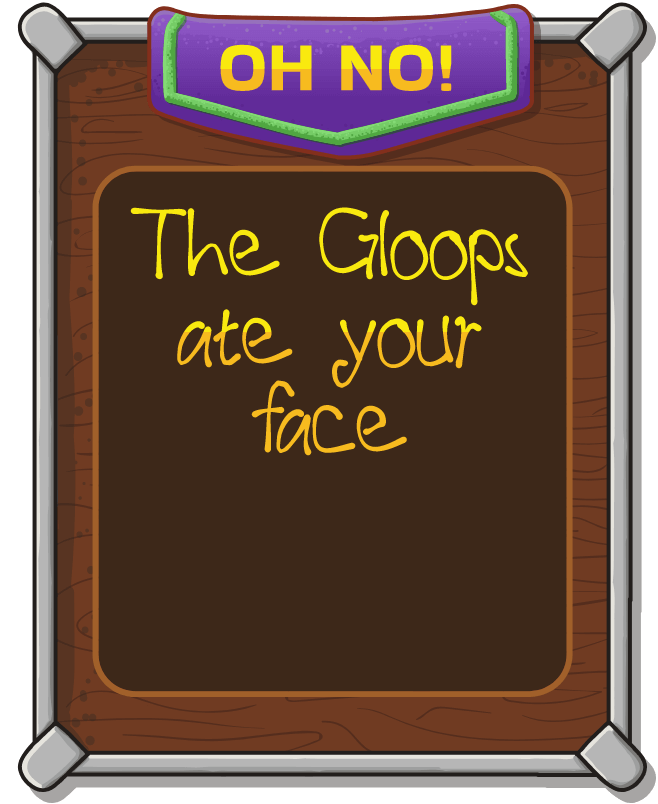
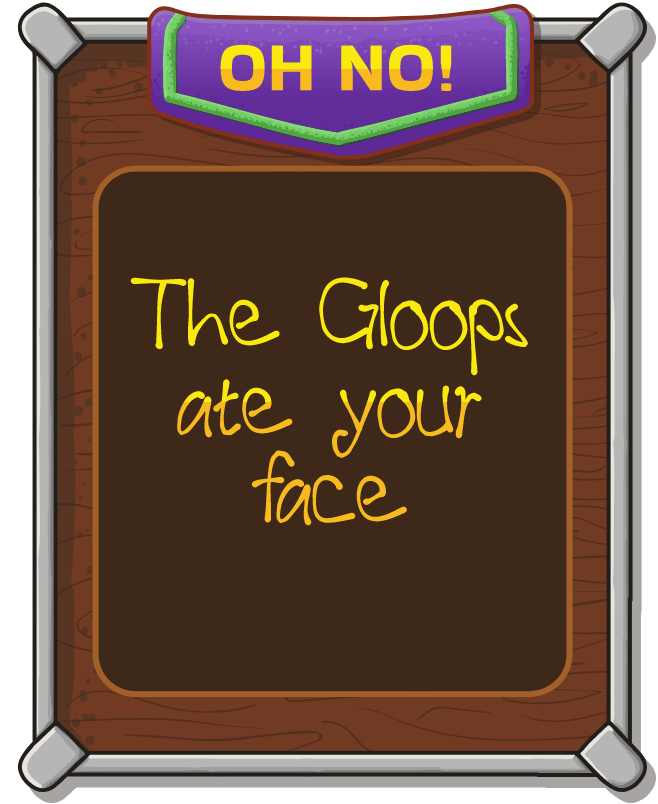
Add game over background image to UI

Changed region(s): [[0.1824, 0.2488, 0.8207, 0.653]]

diff --git a/public/game.js b/public/game.js
@@ -1,5 +1,5 @@
 const INITIAL_EARLY_WAVE_GOLD_BONUS = 100;
-const INITIAL_GAME_STATUS = "gameover";
+const INITIAL_GAME_STATUS = "initial";
 const INITIAL_GOLD_STASH_TOTAL = 5000;
 const INITIAL_PLAYER_HP = 10;
 const INITIAL_TOTAL_GLOOPS = 1;
@@ -166,6 +166,10 @@ const imgPlayAgainButton = new Image();
 imageConfig = ui.gameOverScreen.playAgainButton.drawing.image;
 newUIElement = generateUIImage(imageConfig, imgPlayAgainButton)
 
+const imgUIGameOverBg = new Image();
+imageConfig = ui.gameOverScreen.background.drawing.image;
+newUIElement = generateUIImage(imageConfig, imgUIGameOverBg)
+
 const imgAcidRain = new Image();
 imageConfig =  ui.superPowers.acidRain.drawing.image;
 newUIElement = generateUIImage(imageConfig, imgAcidRain)
@@ -312,7 +316,7 @@ const configTowerLocation = {
   width: TOWER_LOCATION_SIZE.width,
   height: TOWER_LOCATION_SIZE.height,
   fillColor: "transparent",
-  strokeColor: "yellow",
+  strokeColor: "transparent",
 };
 
 const xOffset = Math.round(screenCenter.x - canvas.center.x); // because the canvas is centered
@@ -455,6 +459,7 @@ const isWaveClear = (waveNumber) => {
 
 const populateUIImages = () => {
   const elements = [
+    ui.gameOverScreen.background,
     ui.gameOverScreen.playAgainButton,
     ui.playerStatus.background,
     ui.playerStatus.buttonNextWaveBg,
@@ -481,7 +486,6 @@ const populateUIImages = () => {
 
 const populateFillText = () => {
   const elements = [
-    ui.messages.gameOver,
     ui.playerStatus.buttonNextWaveText,
     ui.playerStatus.gemStashText,
     ui.playerStatus.playerHPText,

diff --git a/public/scripts/UserInterface.js b/public/scripts/UserInterface.js
@@ -92,6 +92,22 @@ class UserInterface {
 				},
 			},
 			gameOverScreen: {
+				background: {
+					evalAvailable: function () {
+						return game.status === "gameover";
+					},
+					drawing: {
+						image: {
+							img: null,
+							src: "static/ui_game_over_bg.png",
+							id: "ui-game-over-bg",
+							x: canvas.center.x - 526 / 2,
+							y: canvas.center.y - 643 / 2,
+							width: 526,
+							height: 643,
+						},
+					},
+				},
 				playAgainButton: {
 					evalAvailable: function () {
 						return game.status === "gameover";
@@ -102,7 +118,7 @@ class UserInterface {
 							src: "static/ui_play_again_button.png",
 							id: "ui-play-again-button",
 							x: canvas.center.x - 185 / 2,
-							y: canvas.center.y,
+							y: canvas.center.y + 144,
 							width: 185,
 							height: 176,
 						},
@@ -167,24 +183,6 @@ class UserInterface {
 							y: canvas.height - 104 - 10,
 							width: 100,
 							height: 104,
-						},
-					},
-				},
-			},
-			messages: {
-				gameOver: {
-					evalAvailable: function () {
-						return game.status === "gameover";
-					},
-					drawing: {
-						text: {
-							x: canvas.center.x,
-							y: canvas.center.y - 30,
-							fillStyle: "#D85678",
-							font: "bold 48px sans-serif",
-							text: "THE GL😈😈PS ATE YOUR FACE!!",
-							textAlign: "center",
-							maxWidth: canvas.width - 4,
 						},
 					},
 				},
